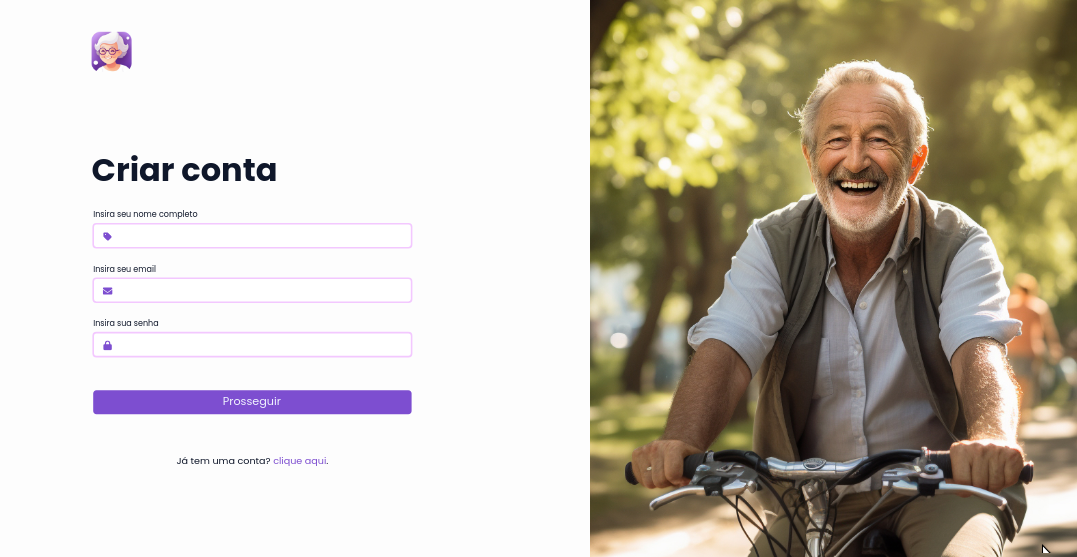
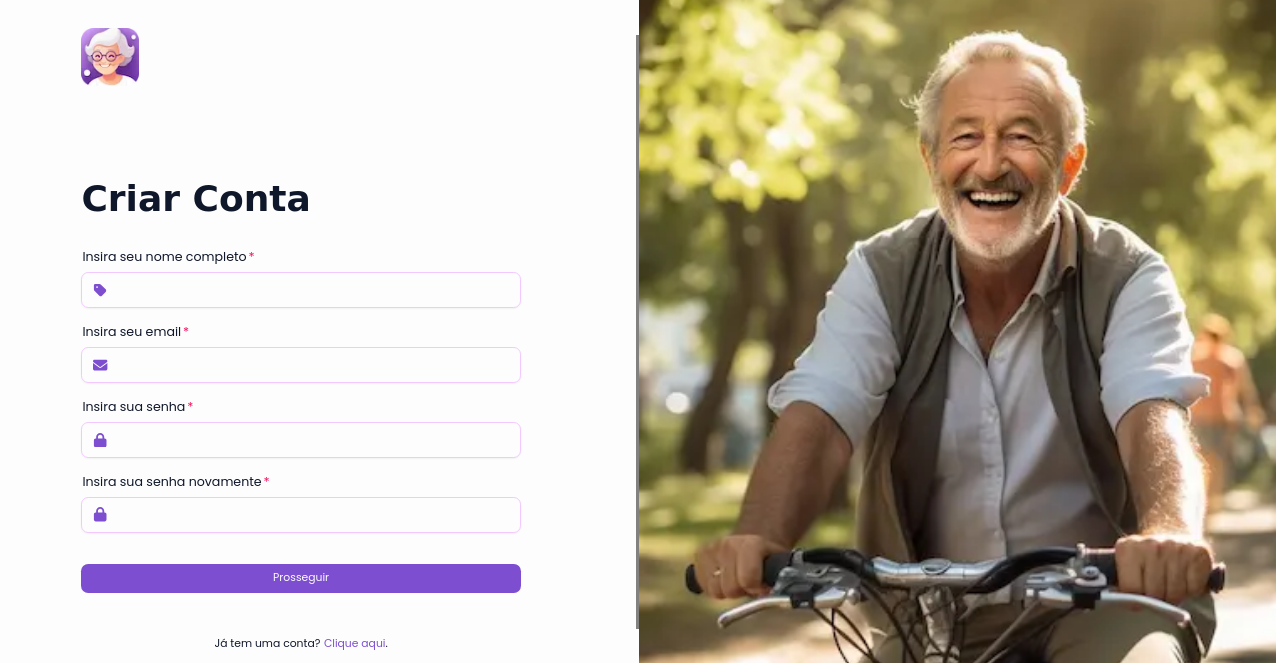
docs(telas): atualizar telas

diff --git a/docs/telas/consultas.md b/docs/telas/consultas.md
@@ -3,29 +3,46 @@
 O módulo de consultas possui a responsabilidade de gerenciar o fluxo de consultas e pós-consultas, como, por exemplo, a gestão dos planos de treinos dos clientes, segue abaixo as telas do protótipo de alta fidelidade do sistema referente a esse módulo:
 
 ## Fluxo do usuário comum
-<img alt="Tela de inicial do idoso" src="../../.github/img/telas/appointment/consultas-client-home.png" width="800"/>
-<img alt="Tela de inicial do idoso com menu aberto" src="../../.github/img/telas/appointment/consultas-client-home-2.png" width="800"/>
-<img alt="Tela de seleção do profissional para consulta" src="../../.github/img/telas/appointment/consultas-client-search-professional.png" width="800"/>
-<img alt="Tela de preenchimento de formulário" src="../../.github/img/telas/appointment/consultas-client-form.png" width="800"/>
+<img alt="Tela de inicial do idoso" src="../../.github/img/telas/appointment/appointments-home.png" width="600"/>
+<img alt="Tela de inicial do idoso com menu aberto" src="../../.github/img/telas/appointment/appointments-home-menu.png" width="800"/>
+<img alt="Tela de inicial do idoso com o modal de confirmação de cancelamento aberto" src="../../.github/img/telas/appointment/appointments-home-menu-cancel-modal.png" width="800"/>
+<img alt="Tela de seleção do profissional para consulta" src="../../.github/img/telas/appointment/appointments-search.png" width="600"/>
+<img alt="Tela de preenchimento de formulário" src="../../.github/img/telas/appointment/appointments-form.png" width="600"/>
 
 ## Fluxo do profissional
 ### Tela inicial
-<img alt="Tela de inicial do profissional" src="../../.github/img/telas/appointment/consultas-professional-home.png" width="800"/>
+<img alt="Tela de inicial do profissional" src="../../.github/img/telas/appointment/appointments-professional-home.png" width="800"/>
+<img alt="Tela de inicial do profissional" src="../../.github/img/telas/appointment/appointments-plan-actions.png" width="800"/>
+<img alt="Tela de inicial do profissional" src="../../.github/img/telas/appointment/appointments-plan-cancel-modal.png" width="800"/>
+
 
 ### Tela de visualização de clientes
-<img alt="Tela dos clientes já atendidos" src="../../.github/img/telas/appointment/consultas-professional-clients.png" width="800"/>
+<img alt="Tela dos clientes já atendidos" src="../../.github/img/telas/appointment/professional-appointments-clients.png" width="800"/>
 
 ### Tela de visualização de consultas
-<img alt="Tela das consultas do profissional" src="../../.github/img/telas/appointment/consultas-professional-appointments.png" width="800"/>
-<img alt="Tela das consultas do profissional" src="../../.github/img/telas/appointment/consultas-professional-appointments-2.png" width="800"/>
-<img alt="Tela das consultas do profissional" src="../../.github/img/telas/appointment/consultas-professional-appointments-3.png" width="800"/>
+<img alt="Tela das consultas pendentes" src="../../.github/img/telas/appointment/professional-appointments-requests.png" width="600"/>
+<img alt="Tela das consultas pendentes com menu aberto" src="../../.github/img/telas/appointment/professional-appointments-menu.png" width="600"/>
+<img alt="Tela das consultas aceitas" src="../../.github/img/telas/appointment/professional-appointments-accepted.png" width="600"/>
+<img alt="Tela das consultas aceitas com menu aberto" src="../../.github/img/telas/appointment/professional-appointments-accepted-menu.png" width="600"/>
+<img alt="Tela das consultas pendentes com modal de cancelamento de consulta aberto" src="../../.github/img/telas/appointment/professional-appointments-cancel-modal.png" width="600"/>
+
+>  O modal de cancelamento se faz presente em ambos os menus laterais de visualização de consultas do profissional.
+
 
 ### Sub-fluxo de criação de planos de treino
-<img alt="Tela de seleção de cliente" src="../../.github/img/telas/appointment/consultas-professional-select-client.png" width="800"/>
-<img alt="Tela de seleção de exercícios" src="../../.github/img/telas/appointment/consultas-select-exercise.png" width="800"/>
-<img alt="Tela de seleção de datas" src="../../.github/img/telas/appointment/consultas-select-dates.png" width="800"/>
-<img alt="Tela de confirmação de criação de plano de treino" src="../../.github/img/telas/appointment/consultas-confirm-action.png" width="800"/>
-<img alt="Tela de confirmação de criação de plano de treino com menu aberto" src="../../.github/img/telas/appointment/consultas-confirm-action-2.png" width="800"/>
+<img alt="Tela de seleção de cliente" src="../../.github/img/telas/appointment/appointments-plan-select-client.png" width="800"/>
+<img alt="Tela de seleção de exercícios" src="../../.github/img/telas/appointment/appointments-plan-select-exercises.png" width="800"/>
+<img alt="Tela de seleção de datas" src="../../.github/img/telas/appointment/appointments-plan-select-date.png" width="800"/>
+<img alt="Tela de confirmação de criação de plano de treino" src="../../.github/img/telas/appointment/appointments-plan-confirm.png" width="800"/>
+<img alt="Tela de confirmação de criação de plano de treino com menu aberto" src="../../.github/img/telas/appointment/appointments-plan-confirm-menu.png" width="800"/>
+<img alt="Tela de confirmação de criação de plano de treino com menu aberto e modal de seleção de ação aberto" src="../../.github/img/telas/appointment/appointments-plan-confirm-modal-action.png" width="800"/>
+
+> - Ao clicar em "Editar lista" o usuário volta para a selação de exercícios com todos que já foram selecionados nesta lista criada
+> - Ao clicar em "Remover lista" o usuário remove todos os exercícios desta lista
+> - Ao clicar em "Visualizar exercícios" o usuário vai abrir um menu lateral indicando todos os exercícios selecionados neste horário indicado.
+
+<img alt="Tela de confirmação de criação de plano de treino com menu de exercícios selecionados na lista" src="../../.github/img/telas/appointment/appointments-plan-confirm-exercise-menu-view.png" width="800"/>
+
 
 <br/>
 <br/>
@@ -35,6 +52,8 @@ O módulo de consultas possui a responsabilidade de gerenciar o fluxo de consult
 <br/>
 <br/>
 
-Observando os componentes de consultas e pós-consultas, nota-se que assim como os outros componentes, existe uma alta valorização da consistência e reaproveitamento de componentes já existentes para deixar o usuário mais familiarizado com o sistema em si e abordar as regras de ouro do design. Ainda falando das regras de ouro, o sistema também tenta evitar ao máximo erros que podem ser cometidos pelos usuários profissionais, dando a possibilidade do mesmo de reverter as suas ações no processo de criação e edição dos planos de treino.
+Ao observar o componente de consulta e pós-consultas, nota-se que o mesmo segue determinadas regras de ouro, assim como os outros componentes, existe uma alta valorização da consistência e reaproveitamento de componentes já existentes para deixar o usuário mais familiarizado com o sistema em si. Além disso, nota-se também a presença de modals de confirmação de ações que não podem facilmente ser revertidas, como o cancelamento de consultas e a remoção de um plano de treino de um cliente.
 
-Por fim, é perceptível a abordagem de princípios Gestalt de simetria e um exemplo disso é a organização dos profissionais presentes na criação de solicitação de consultas.
+Adiante, percebe-se que a houve uma seleção de ícones compatíveis com as recomendações ergonômicas, tentando sempre trazer um mapeamento direto, como no card da página inicial do profissional de "Novas consultas", onde o mesmo é representado por um ícone "+" dentro de um quadrado, indicando a adição de um novo plano.
+
+Por fim, é perceptível a abordagem de princípios Gestálticos de região comum, como, por exemplo, na pesquisa de um profissional, onde o texto é visivelmente separado tanto da barra de pesquisa e filtro e a própria organização dos cards dos profissionais, que também buscam seguir o princípio de simetria, buscando sempre ocupar lados iguais, tanto no conteúdo interno dos cards quanto quando são agrupados em 8 unidades por página de maneira uniforme e simétrica.

diff --git a/docs/telas/configuracao.md b/docs/telas/configuracao.md
@@ -3,13 +3,21 @@
 O módulo de configuração é referente ao controle de opções e informações que o usuário pode manipular na sua conta, segue abaixo todas as telas deste componente:
 
 ## Tela do usuário cliente/idoso
-<img alt="Tela de configuração do idoso" src="../../.github/img/telas/configuracao/idoso.png" width="800"/>
+<img alt="Tela de configuração do idoso" src="../../.github/img/telas/configuration/elderly.png" width="800"/>
 
 ## Tela do profissional da saúde
-<img alt="Tela de configuração do profissional" src="../../.github/img/telas/configuracao/profissional.png" width="800"/>
+<img alt="Tela de configuração do profissional" src="../../.github/img/telas/configuration/professional.png" width="800"/>
+
+## Modal de confirmação de remoção de conta
+<img alt="Modal de remoção de conta" src="../../.github/img/telas/configuration/exclude-account-modal.png" width="800"/>
 
 <br/>
 <br/>
 <br/>
 
-Ambas as telas têm muito em comum quando analisadas lado a lado. Obedecendo assim, boas práticas do design, como a lei de proximidade, região comum, simetria dos princípios Gestalt e a redução da carga de memória de trabalho citada nas regras de outro, isso ocorre devido à simplicidade dos conteúdos e a fácil associação com os ícones em si. Ainda falando sobre as regras de ouro, o componente de configuração de conta do usuário contém uma alta consistência quando comparado com os demais módulos devido à reutilização de todos os componentes já criados no sistema, como, por exemplo, botões e inputs padronizados.
+Ambas as telas de configuração possuem estilos extremamente comuns quando comparadas lado a lado e um dos exemplos de princípios em questão é a aplicação de recomendações ergonômicas, como os inputs dos formulários que possuem indicadores de obrigatoriedade ou não e a aplicação de um projeto de ícones que busca deixar a aplicação mais intuitiva utilizando-se de metáforas, como no ícone de cidade ao lado dos inputs de localização geográficas e convenções, como no input de email, onde se utiliza um ícone de envelope para representar emails.
+
+Ainda sobre os princípios e recomendações que estas telas tendem a seguir, é importante ressaltar as regras de ouro que foram alcançadas, como a consistência que se mantém não só nestas páginas, mas em todo o sistema e a prevenção de erros que consegue ser atingida por meio de um modal, evitando que o usuário delete a sua conta por acidente.
+
+Por fim, este componente também segue alguns princípios Gestalt, como a região comum que se é obtida com a separação dos campos de informações pessoais, profissionais e ações a serem tomadas na conta. Além da região comum, também percebe-se um certo nível de simetria entre as informações dispostas na página em conjunto do princípio de proximidade, que é percebido nos inputs agrupados em conjunto, dando a sensação de que agem em grupo.
+

diff --git a/docs/telas/login.md b/docs/telas/login.md
@@ -3,7 +3,7 @@
 O módulo de cadastro e login possui a responsabilidade de gerenciar o fluxo de autenticação do usuário, permitindo o mesmo a se cadastrar e conectar em sua conta, segue abaixo as telas do protótipo de alta fidelidade do sistema referente a esse módulo:
 
 ## Fluxo de login
-<img alt="Tela de login" src="../../.github/img/telas/login/login.png" />
+<img alt="Tela de login" src="../../.github/img/telas/login/login-1.png" />
 
 ## Fluxo de telas de cadastro
 <img alt="Tela de cadastro na primeira etapa" src="../../.github/img/telas/login/signup-1.png" />
@@ -14,4 +14,8 @@ O módulo de cadastro e login possui a responsabilidade de gerenciar o fluxo de 
 <br/>
 <br/>
 
-Ao observar tanto o fluxo de login quanto de cadastro notam-se várias semelhanças entre os mesmos, contendo uma alta consistência e reaproveitamento de componentes do sistema, como, por exemplo, os inputs, botões e tipografia. Cabe destacar que os componentes em si contém simetria e regiões em comum que são interpretadas pelos usuários logo de cara devido à padronização, como, por exemplo, a separação entre título inicial com sua descrição, se necessário, e o formulário de resposta. Como consequência desta arquitetura de telas, torna-se visível que este componente tenta seguir ao máximo as regras de ouro do design em conjunto dos princípios de Gestalt.
+Ao observar todas as telas de formulário referentes ao módulo de cadastro e login nota-se que todas obedecem certos tipos de regras e princípios que aprimoram a qualidade das mesmas, um desses princípios se faz presente nas recomendações ergonômicas, este sendo o form fill, tal conceito é aplicado na organização dos formulários, utilizando-se de "*" para indicar quais itens são obrigatórios. Ainda falando das recomendações ergonômicas, observa-se também que houve uma seleção de ícones sempre com a intenção de se realizar metáforas, como os cadeados para simbolizar as senhas, ou o uso de convenções, como a utilização de ícones de envelope, que se tornaram convenções para se representar ações que envolvem emails.
+
+Adiante, princípios gestálticos também foram cuidadosamente abordados nestas telas, como a organizações por regiões em comum, como a separação entre texto, inputs e ações extras nos formulários iniciais do fluxo. Além disso, foi abordado princípios de proximidade em cada tela para agrupar determinados componentes e dar a impressão de que ambos agem em grupos, como os inputs e botões e os radios buttons na última página de cadastro.
+
+Por fim, observa-se que assim como as outras páginas a consistência foi um dos fatores-chave para trazer uma sensação de familiaridade para o usuário, todos os botões, inputs, tipografia foram reutilizados sempre que possível e isso pode ser observado ao navegar pelas outras telas.

diff --git a/docs/telas/exercicios.md b/docs/telas/exercicios.md
@@ -3,13 +3,13 @@
 O módulo de exercícios possui a responsabilidade de gerenciar todo o fluxo de exercícios do profissional, permitindo-o fazer uso dos planos de treino e da biblioteca de exercícios, segue abaixo as telas do protótipo de alta fidelidade deste módulo:
 
 ## Tela inicial dos exercícios
-<img alt="Tela inicial dos exercícios" src="../../.github/img/telas/exercise/training-plan.png" width="600"/>
-<img alt="Tela inicial dos exercícios" src="../../.github/img/telas/exercise/exercise-home-menu.png" width="600"/>
+<img alt="Tela inicial dos exercícios" src="../../.github/img/telas/exercise/exercise-home.png" width="600"/>
+<img alt="Tela inicial dos exercícios com menu aberto" src="../../.github/img/telas/exercise/exercise-home-menu.png" width="600"/>
 
 ## Fluxo de pesquisa de exercícios da biblioteca
-<img alt="Tela de pesquisa de exercício" src="../../.github/img/telas/exercise/exercise-list.png" width="600"/>
+<img alt="Tela de pesquisa de exercício" src="../../.github/img/telas/exercise/exercise-search.png" width="600"/>
 
-<img alt="Tela de instruções do exercício" src="../../.github/img/telas/exercise/exercice-player.png" width="800"/>
+<img alt="Tela de instruções do exercício" src="../../.github/img/telas/exercise/exercise-player.png" width="800"/>
 
 > Esta página também é acessível quando o usuário clica em próximo exercício ou em algum dos exercícios presentes no seu plano de treino
 

diff --git a/docs/telas/events.md b/docs/telas/events.md
@@ -15,4 +15,4 @@ O módulo de eventos possui a responsabilidade de gerenciar o fluxo de eventos p
 <br/>
 <br/>
 
-Ao analisar os componentes do módulo de eventos, nota-se que são extremamente idênticos ao componente de blog e abordam os mesmos conceitos e princípios Gestalt e das regras de ouro do design, como, por exemplo, a organização por regiões, alta consistência nas telas abordada pela reutilização de sub-componentes, como os botões e inputs e por fim o componente por si só traz uma redução a Carga de Memória de Trabalho devido o alto reaproveitamento de layouts e sub-componentes.
+Ao analisar os componentes do módulo de eventos, nota-se que são extremamente idênticos ao componente de blog e abordam os mesmos conceitos e princípios Gestalt e das regras de ouro do design, como, por exemplo, a organização por regiões, alta consistência nas telas abordada pela reutilização de sub-componentes, como os botões e inputs e por fim o componente por si só traz uma redução a Carga de Memória de Trabalho devido a simplicidade das telas e o alto reaproveitamento de layouts e sub-componentes.
